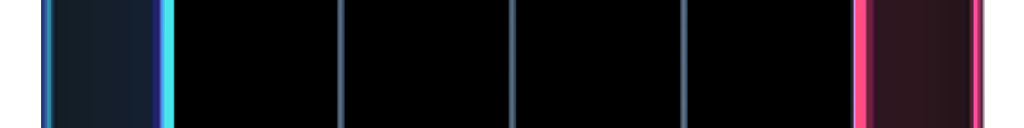
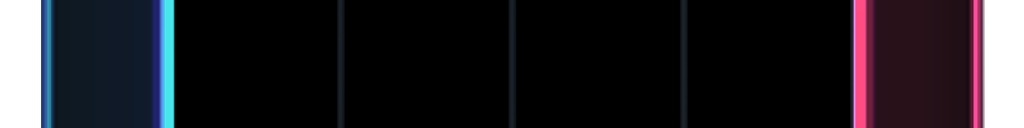
Refer to CHANGELOG entry: December 7, 2020

Changed region(s): [[0.6562, 0.0, 0.6875, 1.0], [0.5, 0.0, 0.5312, 1.0], [0.3125, 0.0, 0.3438, 1.0]]

diff --git a/CHANGELOG.md b/CHANGELOG.md
@@ -1,3 +1,10 @@
+###### December 7, 2020
+- Added highest grade achieved onto the jackets of the song grid in `Song Select`
+- Modified track texture for less distinction between lanes
+- Modified BT textures for easier distinction when on top of FX chips or holds
+- Fixed track cover not covering lane fully/track invisible effect not working
+correctly
+
 ###### December 6, 2020
 - Added scrolling to collection wheel to prevent rendering off the screen
 - Fixed Best 20/50 indicator being cut off under certain conditions
